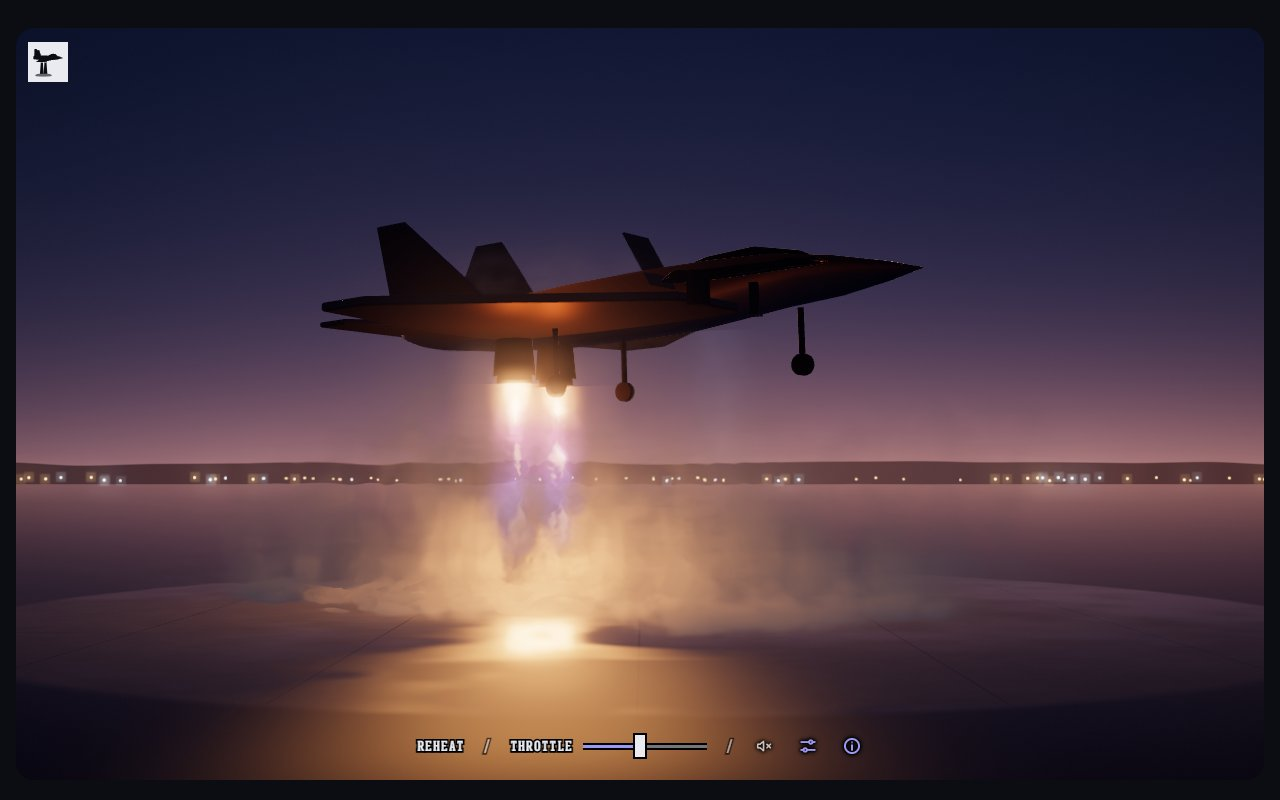
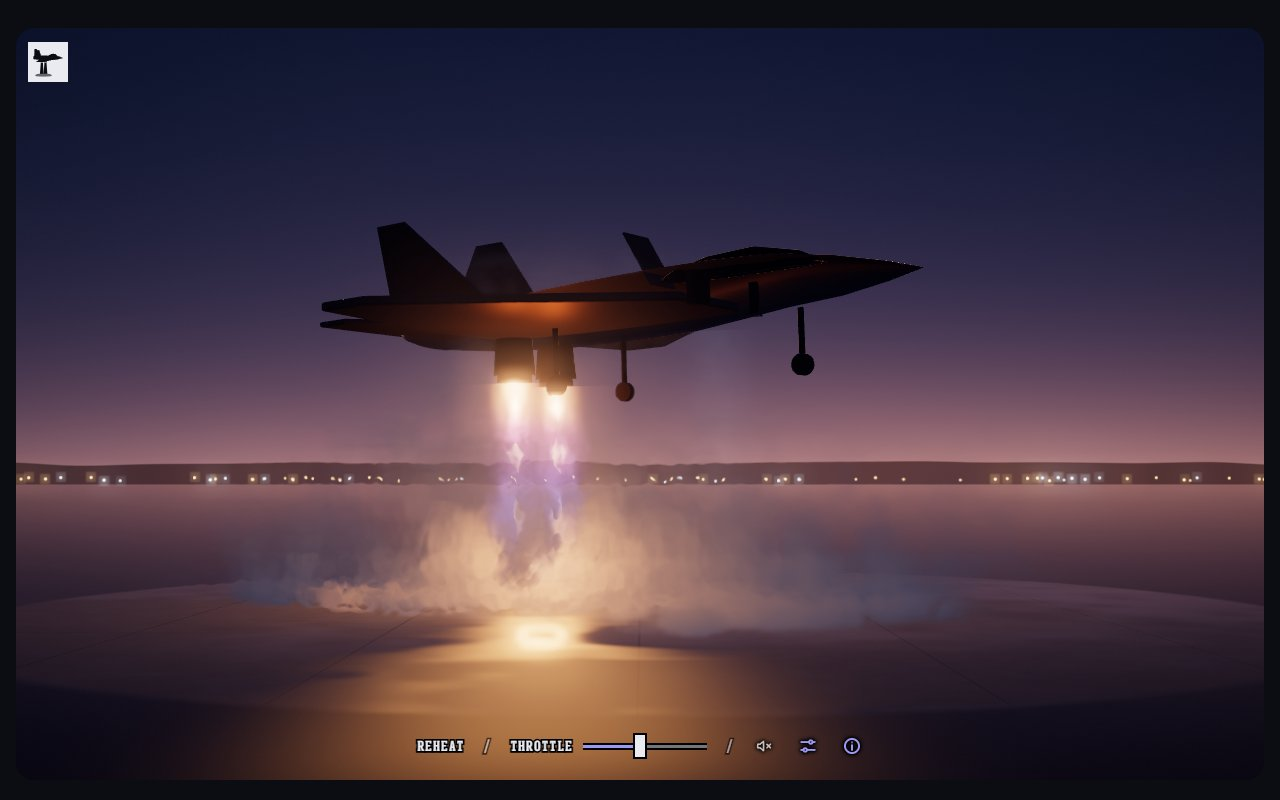
Jet hover: gas tuning. The plumes are now a line light in the volume, so the steam round them glows and the jets read through it. Shimmer cells are finer and faster, and the hot core saturates, so the plumes no longer smear into a zigzag; the bend caps at 4 px and the jet-core ribbon shimmer is halv

Changed region(s): [[0.25, 0.5938, 0.5, 0.8438], [0.4375, 0.5625, 0.6562, 0.7812]]

diff --git a/jethover/fluid.js b/jethover/fluid.js
@@ -201,7 +201,7 @@ const VOLUME = /* glsl */`${HEAD}
 uniform sampler2D tDye, tVel, tDepth;
 uniform vec2 uRes;
 uniform mat4 uInvProj, uCamWorld;
-uniform vec3 uCam, uFwd, uBoxMax, uLightP, uLightC, uAmb, uAlbedo;
+uniform vec3 uCam, uFwd, uBoxMax, uLightP, uLightC, uAmb, uAlbedo, uJetA0, uJetA1, uJetC;
 uniform float uNear, uFar, uTime, uFrame, uSigma, uAbs, uG, uHeatGlow;
 uniform int uSteps;
 layout(location = 0) out vec4 oCol;
@@ -234,15 +234,16 @@ void main() {
     vec3 vw = S(tVel, c).xyz;
     s = S(tDye, c - vw * 0.05 / CELL);
     // Heat bends light: the march sums it, with moving cells for the shimmer.
-    float rise = uTime * 2.2;
+    // Fine fast cells; the hot core saturates, so the plume stays readable.
+    float hot = min(s.g, 2.5);
     hSum += s.g * ds;
-    hNoise += s.g * (vn3(p * vec3(2.3, 1.4, 2.3) + vec3(0.0, -rise, 0.0)) - 0.5) * ds;
+    hNoise += hot * (vn3(p * vec3(5.0, 3.0, 5.0) + vec3(0.0, -uTime * 4.5, 0.0)) - 0.5) * ds;
     // Billows: coarse lumps, then fine wisps that age away.
     vec3 q = p - vw * 0.08 + vec3(0.0, -s.b * 0.6 - uTime * 0.25, 0.0);
     // Cloud erosion: the grid gives the body, three octaves cut its edges.
     float fb = vn3(q * 1.1) * 0.55 + vn3(q * 2.5 + 7.3) * 0.3 + vn3(q * 5.7 + vec3(uTime * 0.4, 0.0, 0.0)) * 0.15;
     float body = min(s.r, 3.0);
-    float den = body * smoothstep(0.38, 0.68, fb + min(body, 1.0) * 0.12) * 2.6;
+    float den = body * smoothstep(0.42, 0.62, fb + min(body, 1.0) * 0.12) * 2.6;
     if (den < 0.003) continue;
     // Light from the hot pools, through two short shadow taps.
     vec3 L = uLightP - p;
@@ -254,7 +255,13 @@ void main() {
     float powder = 1.0 - exp(-den * 4.0);
     // Cool sky light from above, dimmed by the gas over this point.
     float up = exp(-S(tDye, c + vec3(0.0, 1.5 / CELL, 0.0)).r * uAbs * 0.8);
-    vec3 Li = uAmb * (0.35 + 1.3 * up) + uLightC * lt * (0.4 + 0.6 * powder) * hg(dot(dir, L), uG) * 12.566 * (0.35 + 0.65 * smoothstep(0.2, 2.0, dl)) / (1.0 + dl * dl * 0.14);
+    vec3 Li = uAmb * (0.35 + 1.3 * up) + uLightC * lt * (0.4 + 0.6 * powder) * hg(dot(dir, L), uG) * 12.566 * (0.35 + 0.65 * smoothstep(0.2, 2.0, dl)) / (1.0 + dl * dl * 0.2);
+    // The plumes are a line light: the gas round them takes their glow.
+    vec3 ab = uJetA1 - uJetA0;
+    vec3 cp = uJetA0 + ab * clamp(dot(p - uJetA0, ab) / max(dot(ab, ab), 1e-3), 0.0, 1.0);
+    vec3 J = cp - p;
+    float dj = length(J);
+    Li += uJetC * hg(dot(dir, J / max(dj, 1e-3)), 0.2) * 12.566 / (1.0 + dj * dj * 1.2);
     // Hot gas glows a little by itself near the jets.
     vec3 Le = vec3(1.0, 0.38, 0.12) * s.g * s.g * uHeatGlow;
     float al = 1.0 - exp(-den * uSigma * ds);
@@ -302,7 +309,7 @@ export function makeFluid(renderer) {
   const U = {
     uDt: { value: 1 / 60 }, uTime: { value: 0 },
     uBuoy: { value: 3.0 }, uWeight: { value: -2.6 }, uTurb: { value: 70 }, uVort: { value: 30 }, uDamp: { value: 0.6 },
-    uDiss: { value: 0.09 }, uCool: { value: 0.35 }, uPick: { value: 0.2 },
+    uDiss: { value: 0.16 }, uCool: { value: 0.35 }, uPick: { value: 0.2 },
   };
   const mCurl = raw(CURL, { tVel: { value: null } });
   const mAdvV = raw(ADVECT_VEL, { ...jetU, tVel: { value: null }, tDye: { value: null }, tCurl: { value: curl.texture }, uDt: U.uDt, uTime: U.uTime, uBuoy: U.uBuoy, uWeight: U.uWeight, uTurb: U.uTurb, uVort: U.uVort, uDamp: U.uDamp });
@@ -347,7 +354,8 @@ export function makeFluid(renderer) {
     uInvProj: { value: new THREE.Matrix4() }, uCamWorld: { value: new THREE.Matrix4() },
     uCam: { value: new THREE.Vector3() }, uFwd: { value: new THREE.Vector3() }, uBoxMax: { value: BOX_MAX.clone() },
     uLightP: { value: new THREE.Vector3() }, uLightC: { value: new THREE.Color() },
-    uAmb: { value: new THREE.Color(0.04, 0.045, 0.07) }, uAlbedo: { value: new THREE.Color(0.9, 0.86, 0.8) },
+    uJetA0: { value: new THREE.Vector3() }, uJetA1: { value: new THREE.Vector3() }, uJetC: { value: new THREE.Color() },
+    uAmb: { value: new THREE.Color(0.032, 0.046, 0.09) }, uAlbedo: { value: new THREE.Color(0.9, 0.86, 0.8) },
     uNear: { value: 0.5 }, uFar: { value: 2000 }, uTime: { value: 0 }, uFrame: { value: 0 },
     uSigma: { value: 2.4 }, uAbs: { value: 2.2 }, uG: { value: 0.35 }, uHeatGlow: { value: 0.01 }, uSteps: { value: 64 },
   };

diff --git a/jethover/main.js b/jethover/main.js
@@ -206,7 +206,7 @@ function pose(tdt) {
     // The gas: each jet drives its core down; the hot ones heat it.
     gas.jetU.uJetP.value[i].set(j.n.x, j.n.y, j.n.z, i === 2 ? 0.75 : 0.6);
     gas.jetU.uJetA.value[i].set(axis.x, axis.y, axis.z, len);
-    gas.jetU.uJetK.value[i].set((i === 2 ? 9 : 15) * (0.35 + 0.75 * eng.rpm), i === 2 ? 0 : 6 + 14 * eng.rpm, (i === 2 ? 1.2 : 4) * (0.3 + eng.rpm), 0);
+    gas.jetU.uJetK.value[i].set((i === 2 ? 9 : 15) * (0.35 + 0.75 * eng.rpm), i === 2 ? 0 : 6 + 14 * eng.rpm, (i === 2 ? 0.5 : 5) * (0.3 + eng.rpm), 0);
     // The pad: a hot pool under each nozzle; the fan's pool is cold.
     const hot = i === 2 ? 0 : (0.25 + 1.5 * thr * thr) * clamp(1.4 - j.n.y / 10, 0.3, 1);
     S.padU.uHot.value[i].set(j.c.x, 0, j.c.z, hot);
@@ -224,6 +224,10 @@ function pose(tdt) {
   // The gas takes its light from the pools, just over the pad.
   gas.VU.uLightP.value.set(tmp.x, 1.4, tmp.z);
   gas.VU.uLightC.value.setRGB(1.0, 0.42, 0.13).multiplyScalar((0.5 + 1.8 * thr * thr) * flick);
+  // The plumes light the gas round them, from the nozzles to the pad.
+  gas.VU.uJetA0.value.copy(jets[0].n).add(jets[1].n).multiplyScalar(0.5);
+  gas.VU.uJetA1.value.copy(tmp).setY(0.3);
+  gas.VU.uJetC.value.setRGB(1.0, 0.5, 0.32).multiplyScalar((0.15 + 0.9 * thr) * flick);
   void tdt;
 }
 

diff --git a/jethover/fx.js b/jethover/fx.js
@@ -126,14 +126,14 @@ export const REFRACT = {
       float hy = texture2D(tVolHeat, vUv + vec2(0.0, px.y)).g - texture2D(tVolHeat, vUv - vec2(0.0, px.y)).g;
       vec2 off = vec2(hx, hy) * uBend * uAmp;
       // A long grazing path over the pad must not tear the frame.
-      off *= min(1.0, 5.0 * uAmp / max(length(off), 1e-4));
+      off *= min(1.0, 4.0 * uAmp / max(length(off), 1e-4));
       uv += off / uRes;
       // The jet cores: fine cells along each plume.
       float s = texture2D(tHeat, vUv).r;
       if (s > 0.002) {
         vec2 q = vUv * uRes / (12.0 * uAmp);
         vec2 o = vec2(vn(q + vec2(0.0, uTime * 6.0)) - 0.5, vn(q * 1.3 + vec2(7.1, uTime * 7.0)) - 0.5);
-        uv += o * min(s, 1.0) * 6.0 * uAmp / uRes;
+        uv += o * min(s, 1.0) * 2.5 * uAmp / uRes;
       }
       vec3 c = texture2D(tDiffuse, uv).rgb;
       // The lit gas lies over the bent scene.

diff --git a/docs/toys/jethover.md b/docs/toys/jethover.md
@@ -101,8 +101,8 @@ flowchart LR
 - **Plumes.** One view-facing ribbon per nozzle, from the nozzle to the pad, under the gas. A hot throat, a body that runs orange to violet blue, and shock diamonds: rhombs on the axis, spaced wider with more throttle, each dimmer than the one above. The cold lift-fan jet shows only in the gas it drives.
 - **Pad.** Damp concrete with slab joints and soot, light from the nozzles and a hot pool under each plume, a wet mirror of the sky and a streak of each plume, then haze.
 - **Gas.** K3, the volume fluid of Fire (`shared/fire.js`), ported from WebGPU to WebGL2 fragment passes. A 64 x 28 x 64 grid of 0.375 m cells covers 24 x 10.5 x 24 m over the pad; its y slices lie as tiles in one 448 x 256 texture. Each step: curl, advection with buoyancy, drifting turbulence and vorticity confinement, divergence, 20 Jacobi sweeps, projection, then dye transport. Each jet drives its core down its axis and the hot jets heat it. The pad is a solid floor; the far walls and the roof are open. Steam flashes off the damp pad where a jet lands, and the wall jet tears more off where it runs fast. Steam is warm, so it rises; hot gas rises faster.
-- **Volume.** A half-size ray march through the grid, 64 steps, stopped at the craft by the jet-core pass's depth. Fire's method: a velocity-warped lookup, cloud erosion by three noise octaves, light from the hot pools through three self-shadow taps with Beer and multi-scatter terms, a powder term and a Henyey-Greenstein phase, cool sky light from above, interleaved gradient noise on the start, then a light blur.
-- **Heat.** The same march sums the heat along each ray, times rising noise cells in world space. The composite bends the scene along the gradient of that sum, capped at 5 px, so the shimmer sits where the hot gas really is and keeps its perspective. A fine ribbon heat along each jet core adds the near shimmer; the craft writes depth there, so heat behind it does not bend it.
+- **Volume.** A half-size ray march through the grid, 64 steps, stopped at the craft by the jet-core pass's depth. Fire's method: a velocity-warped lookup, cloud erosion by three noise octaves, light from the hot pools through three self-shadow taps with Beer and multi-scatter terms, a powder term and a Henyey-Greenstein phase, the plumes as a line light so the steam round them glows and the jets read through it, cool sky light from above, interleaved gradient noise on the start, then a light blur.
+- **Heat.** The same march sums the heat along each ray, times rising noise cells in world space. The cells are about 20 cm and rise fast; the hot core saturates, so the plumes stay readable. The composite bends the scene along the gradient of that sum, capped at 4 px, so the shimmer sits where the hot gas really is and keeps its perspective. A fine ribbon heat along each jet core adds the near shimmer; the craft writes depth there, so heat behind it does not bend it.
 - **Frames.** Scene with MSAA, jet-core heat and depth, gas step and volume, refraction and composite, bloom with a threshold, grade, ACES output.
 
 ## Frame loop
@@ -134,7 +134,7 @@ Headless Chromium with `--use-angle=gl`. Captures: `docs/qa/jethover/`.
 | Q7 bar | 2 controls (Reheat, Throttle); 4 How rows |
 | Q8 keys | Space held runs the engine to 0.95; release spools back to the hover |
 | Q9 sound | The context runs during the gesture and is suspended 9 s after release |
-| Q10 frames | 16.7 ms median, 16.7 ms p90 during a hold and drag, on Tom's PC through ANGLE GL (vsync bound); about 580 fps unthrottled at 1280 x 800 with the gas on |
+| Q10 frames | 16.7 ms median, 16.7 ms p90 during a hold and drag, on Tom's PC through ANGLE GL (vsync bound); about 565 fps unthrottled at 1280 x 800 and 350 at 1920 x 1080, with the gas on |
 
 ## Open for Tom
 
